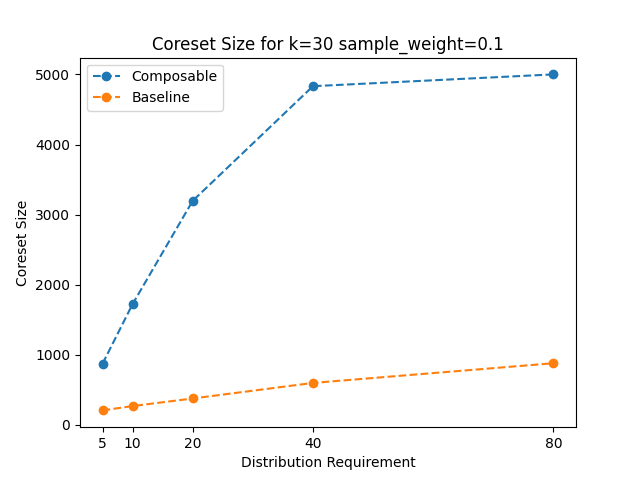
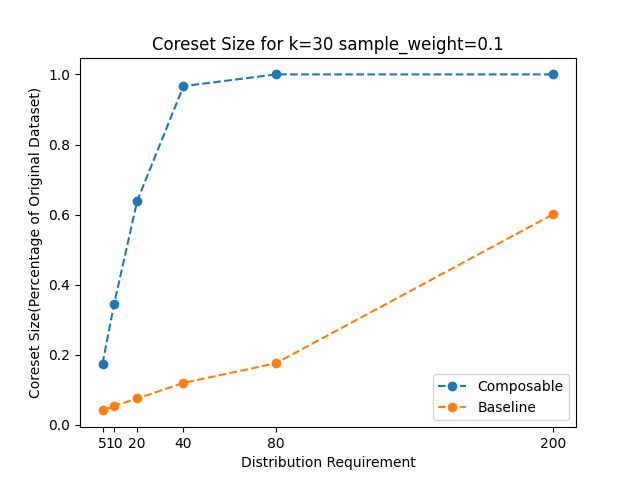
added test scripts

diff --git a/matrix_implementation/plots/plot.py b/matrix_implementation/plots/plot.py
@@ -3,7 +3,7 @@ from os.path import join, isfile
 import argparse
 import os
 
-distribution_req = [5, 10, 20, 40, 80]
+distribution_req = [100,200,300,400,500,600,700,800,900,1000]
 
 def get_output_filename(cf, sp, dist, c):
     return "../runs/metrics_" + str(cf) + "_" + str(sp) + "_" + str(dist) + "_" + str(c) + ".txt"
@@ -27,19 +27,25 @@ def get_metrics(filename):
         if l.startswith("Time Taken:"):
             txt = l.split(":")
             data["response_time"] = float(txt[1].strip())
+        if l.startswith("Time Taken to Train AlexNet Model:"):
+            txt = l.split(":")
+            data["ml_time"] = float(txt[1].strip())
+        if l.startswith("Test Accuracy AlexNet Model:"):
+            txt = l.split(":")
+            data["ml_acc"] = float(txt[1].strip())
     
     return data
 
 def plot_coreset_size(composable_data, greedy_data, args):
-    compsable_y = [data["solution_size"] for data in composable_data]
-    greedy_y = [data["solution_size"] for data in greedy_data]
+    compsable_y = [data["solution_size"]/(50000 * args.sample_weight) for data in composable_data]
+    greedy_y = [data["solution_size"]/(50000 * args.sample_weight) for data in greedy_data]
     plot_filename = "../plots/figures/size_" + str(args.coverage_factor) + "_" + str(args.sample_weight) + ".png"
     
     plt.plot(distribution_req, compsable_y, 'o--', label="Composable")
     plt.plot(distribution_req, greedy_y, 'o--', label="Baseline")
     plt.legend()
     plt.xticks(distribution_req)
-    plt.ylabel("Coreset Size")
+    plt.ylabel("Coreset Size(Percentage of Original Dataset)")
     plt.xlabel("Distribution Requirement")
     plt.title("Coreset Size for k={0} sample_weight={1}".format(args.coverage_factor, args.sample_weight))
     plt.savefig(plot_filename)
@@ -57,6 +63,60 @@ def plot_coreset_time(composable_data, greedy_data, args):
     plt.ylabel("Time (seconds)")
     plt.xlabel("Distribution Requirement")
     plt.title("Time Taken for k={0} sample_weight={1}".format(args.coverage_factor, args.sample_weight))
+    plt.savefig(plot_filename)
+    plt.clf()
+    plt.cla()
+
+
+
+
+
+def plot_coreset_ml(composable_data, greedy_data, args):
+    composable_ml_time_y = [data["ml_time"] for data in composable_data]
+    greedy_ml_time_y = [data["ml_time"] for data in greedy_data]
+    composable_ml_acc_y = [data["ml_acc"] for data in composable_data]
+    greedy_ml_acc_y = [data["ml_acc"] for data in greedy_data]
+    full_data_time = 0.0
+    full_data_acc = 0.0
+    full_data_metric_file = '../runs/metrics_full_data_ml_' + str(args.sample_weight) + ".txt"
+    with open(full_data_metric_file, 'r') as f:
+        lines = f.readlines()
+        for l in lines:
+            if l.startswith("Time Taken to Train AlexNet Model:"):
+                txt = l.split(":")
+                full_data_time = float(txt[1].strip())
+                print("here")
+            if l.startswith("Test Accuracy AlexNet Model:"):
+                txt = l.split(":")
+                full_data_acc = float(txt[1].strip())
+    
+    full_data_time_y = [full_data_time] * len(distribution_req)
+    full_data_acc_y = [full_data_acc] * len(distribution_req)
+
+    # Training Time 
+    plot_filename = "../plots/figures/ml_time_" + str(args.coverage_factor) + "_" + str(args.sample_weight) + ".png"
+    plt.plot(distribution_req, composable_ml_time_y, 'o--', label="Composable")
+    plt.plot(distribution_req, greedy_ml_time_y, 'o--', label="Baseline")
+    plt.plot(distribution_req, full_data_time_y, 'o--', label="Full Data")
+    plt.legend()
+    plt.xticks(distribution_req)
+    plt.ylabel("Time (seconds)")
+    plt.xlabel("Distribution Requirement")
+    plt.title("Time Taken to train AlexNet Model for k={0} sample_weight={1}".format(args.coverage_factor, args.sample_weight))
+    plt.savefig(plot_filename)
+    plt.clf()
+    plt.cla()
+
+    # Model Accuracy 
+    plot_filename = "../plots/figures/ml_acc_" + str(args.coverage_factor) + "_" + str(args.sample_weight) + ".png"
+    plt.plot(distribution_req, composable_ml_acc_y, 'o--', label="Composable")
+    plt.plot(distribution_req, greedy_ml_acc_y, 'o--', label="Baseline")
+    plt.plot(distribution_req, full_data_acc_y, 'o--', label="Full Data")
+    plt.legend()
+    plt.xticks(distribution_req)
+    plt.ylabel("Model Accuracy")
+    plt.xlabel("Distribution Requirement")
+    plt.title("AlexNet Model Accuracy for k={0} sample_weight={1}".format(args.coverage_factor, args.sample_weight))
     plt.savefig(plot_filename)
     plt.clf()
     plt.cla()
@@ -81,6 +141,7 @@ if __name__=="__main__":
     composable_data = [get_metrics(f) for f in composable_metrics_files]
     greedy_data = [get_metrics(f) for f in greedy_metrics_files]
 
-    plot_coreset_size(composable_data, greedy_data, args)
-    plot_coreset_time(composable_data, greedy_data, args)
+    # plot_coreset_size(composable_data, greedy_data, args)
+    # plot_coreset_time(composable_data, greedy_data, args)
+    plot_coreset_ml(composable_data, greedy_data, args)
     # plot_coreset_distribution(composable_data, greedy_data)

diff --git a/matrix_implementation/models/alexnet.py b/matrix_implementation/models/alexnet.py
@@ -46,6 +46,8 @@ DEVICE_IDS = [0, 1, 2, 3] # GPUs to use
 
 
 def get_metric_filename(args):
+    if args.coreset == 1:
+        return "metrics_full_data_ml_" + str(args.sample_weight) + ".txt"
     return "metrics_" + str(args.coverage_factor) + "_" + str(args.sample_weight) + "_" + str(args.distribution_req) + "_" + str(args.composable) + '.txt'
 
 class AlexNet(nn.Module):
@@ -103,7 +105,7 @@ def train(args, CHECKPOINT_DIR, LOG_DIR):
         training_data_loc += str(args.distribution_req) + "/" + tp
     else:
         training_data_loc += tp
-    training_data_loc += "/train"
+    training_data_loc += str(args.composable) + "/train"
     print(training_data_loc)
     # create data loader
     train_dataset = datasets.ImageFolder(training_data_loc, transforms.Compose([
@@ -224,7 +226,7 @@ def test_model(args, CHECKPOINT_DIR):
     model = torch.nn.parallel.DataParallel(model, device_ids=DEVICE_IDS)
     # model.load_state_dict(state['model'])
     model.load_state_dict(torch.load(model_path))
-    print('model loaded')
+    print('model loaded from:{0}'.format(model_path))
     # create data loader
     test_dataset = datasets.ImageFolder(TEST_IMG_DIR, transforms.Compose([transforms.Resize((227,227)), transforms.ToTensor(), transforms.Normalize(mean=[0.485, 0.456, 0.406], std=[0.229, 0.224, 0.225])]))
     print('testing dataset created')
@@ -249,7 +251,7 @@ def test_model(args, CHECKPOINT_DIR):
         num_samples += preds.size(0)
     
     print(f'test accuracy: {float(num_correct) / float(num_samples) * 100:.2f}')
-
+    print()
     with open(os.path.join(RUNS_DIR, get_metric_filename(args)), "a") as f:
         f.write(
             "Test Accuracy AlexNet Model: {0}\n".format((float(num_correct) / float(num_samples)))
@@ -266,9 +268,9 @@ def main(args):
         tp = "full_data"
 
     if tp != "full_data":
-        output_dir += str(args.distribution_req) + "/" + tp
+        output_dir += str(args.distribution_req) + "/" + tp + str(args.composable)
     else:
-        output_dir += tp
+        output_dir += tp 
 
 
     LOG_DIR = output_dir + 'tblogs/'

diff --git a/matrix_implementation/data-selection/main.py b/matrix_implementation/data-selection/main.py
@@ -2,6 +2,7 @@
 Main Driver code that handles data generation as well as solving the set cover
 """
 
+import math
 import data_generator
 import os
 from os.path import isfile, join
@@ -33,11 +34,12 @@ def main(args):
         generator.generate_metadata(args.threshold)
     
     solution_data = []
-    dist_req = [args.distribution_req] * 10
+    
     
     if args.composable == 0:
         # start the algorithm for each partition
         # multithreaded
+        dist_req = [math.ceil(args.distribution_req / args.number_of_partitions)] * 10
         q = multiprocessing.Queue()
         processes = []
         for i in range(args.number_of_partitions):
@@ -57,6 +59,7 @@ def main(args):
             p.join()
 
     else:
+        dist_req = [args.distribution_req] * 10
         s, cscore, res_time = algorithm.algorithm(args.coverage_factor, dist_req, args.sample_weight)
         solution_data.append((s, cscore, res_time))
 
@@ -110,4 +113,9 @@ if __name__ == "__main__":
     parser.add_argument('--composable', type=int, required=True, default=1)
     parser.add_argument('--distribution_req', type=int, required=True, default=50)
     args = parser.parse_args()
+    print("Running algorithm for k={0}, distribution_req={1}, composable={2}".format(
+        args.coverage_factor,
+        args.distribution_req,
+        args.composable
+    ))
     main(args)

diff --git a/matrix_implementation/data-selection/algorithm.py b/matrix_implementation/data-selection/algorithm.py
@@ -83,7 +83,7 @@ def composable_algorithm(part_id, coverage_factor, distribution_req, sp, q):
     GC = np.array(distribution_req) # group count tracker
     solution = set() # solution set 
     # main loop
-    while (not check_for_zeros(CC)) and len(solution) < delta_size and (not check_for_zeros(GC)):
+    while (not check_for_zeros(CC)) and len(solution) < len(delta) and (not check_for_zeros(GC)):
         best_point, max_score = -1, float('-inf')
         # toDo: optimize this loop using scipy
         for p in delta.difference(solution):
@@ -158,11 +158,11 @@ def algorithm(coverage_factor, distribution_req, sp):
             labels_dict[key] = arr
     
     CC = np.empty(delta_size) # coverage tracker
-    CC.fill(coverage_factor)
+    CC[list(delta)] = coverage_factor
     GC = np.array(distribution_req) # group count tracker
     solution = set() # solution set 
     # main loop
-    while (not check_for_zeros(CC)) and len(solution) < delta_size and (not check_for_zeros(GC)):
+    while (not check_for_zeros(CC)) and len(solution) < len(delta) and (not check_for_zeros(GC)):
         best_point, max_score = -1, float('-inf')
         # toDo: optimize this loop using scipy
         for p in delta.difference(solution):

diff --git a/matrix_implementation/models/model_data.py b/matrix_implementation/models/model_data.py
@@ -28,7 +28,7 @@ def copy_images(tp, point_files, classes_files, class_names, args):
         INPUT_ROOT_DIR += str(args.distribution_req) + "/" + tp
     else:
         INPUT_ROOT_DIR += tp
-    TRAIN_IMG_DIR = INPUT_ROOT_DIR + '/train/'
+    TRAIN_IMG_DIR = INPUT_ROOT_DIR + str(args.composable) + '/train/'
     os.makedirs(INPUT_ROOT_DIR, exist_ok=True)
     os.makedirs(TRAIN_IMG_DIR, exist_ok=True)
 
@@ -95,5 +95,5 @@ if __name__=="__main__":
     
 
     copy_images('full_data', delta_point_files, classes_files, class_names, args)
-    copy_images('coreset', coreset_point_files, classes_files, class_names, args)
+    # copy_images('coreset', coreset_point_files, classes_files, class_names, args)
 
